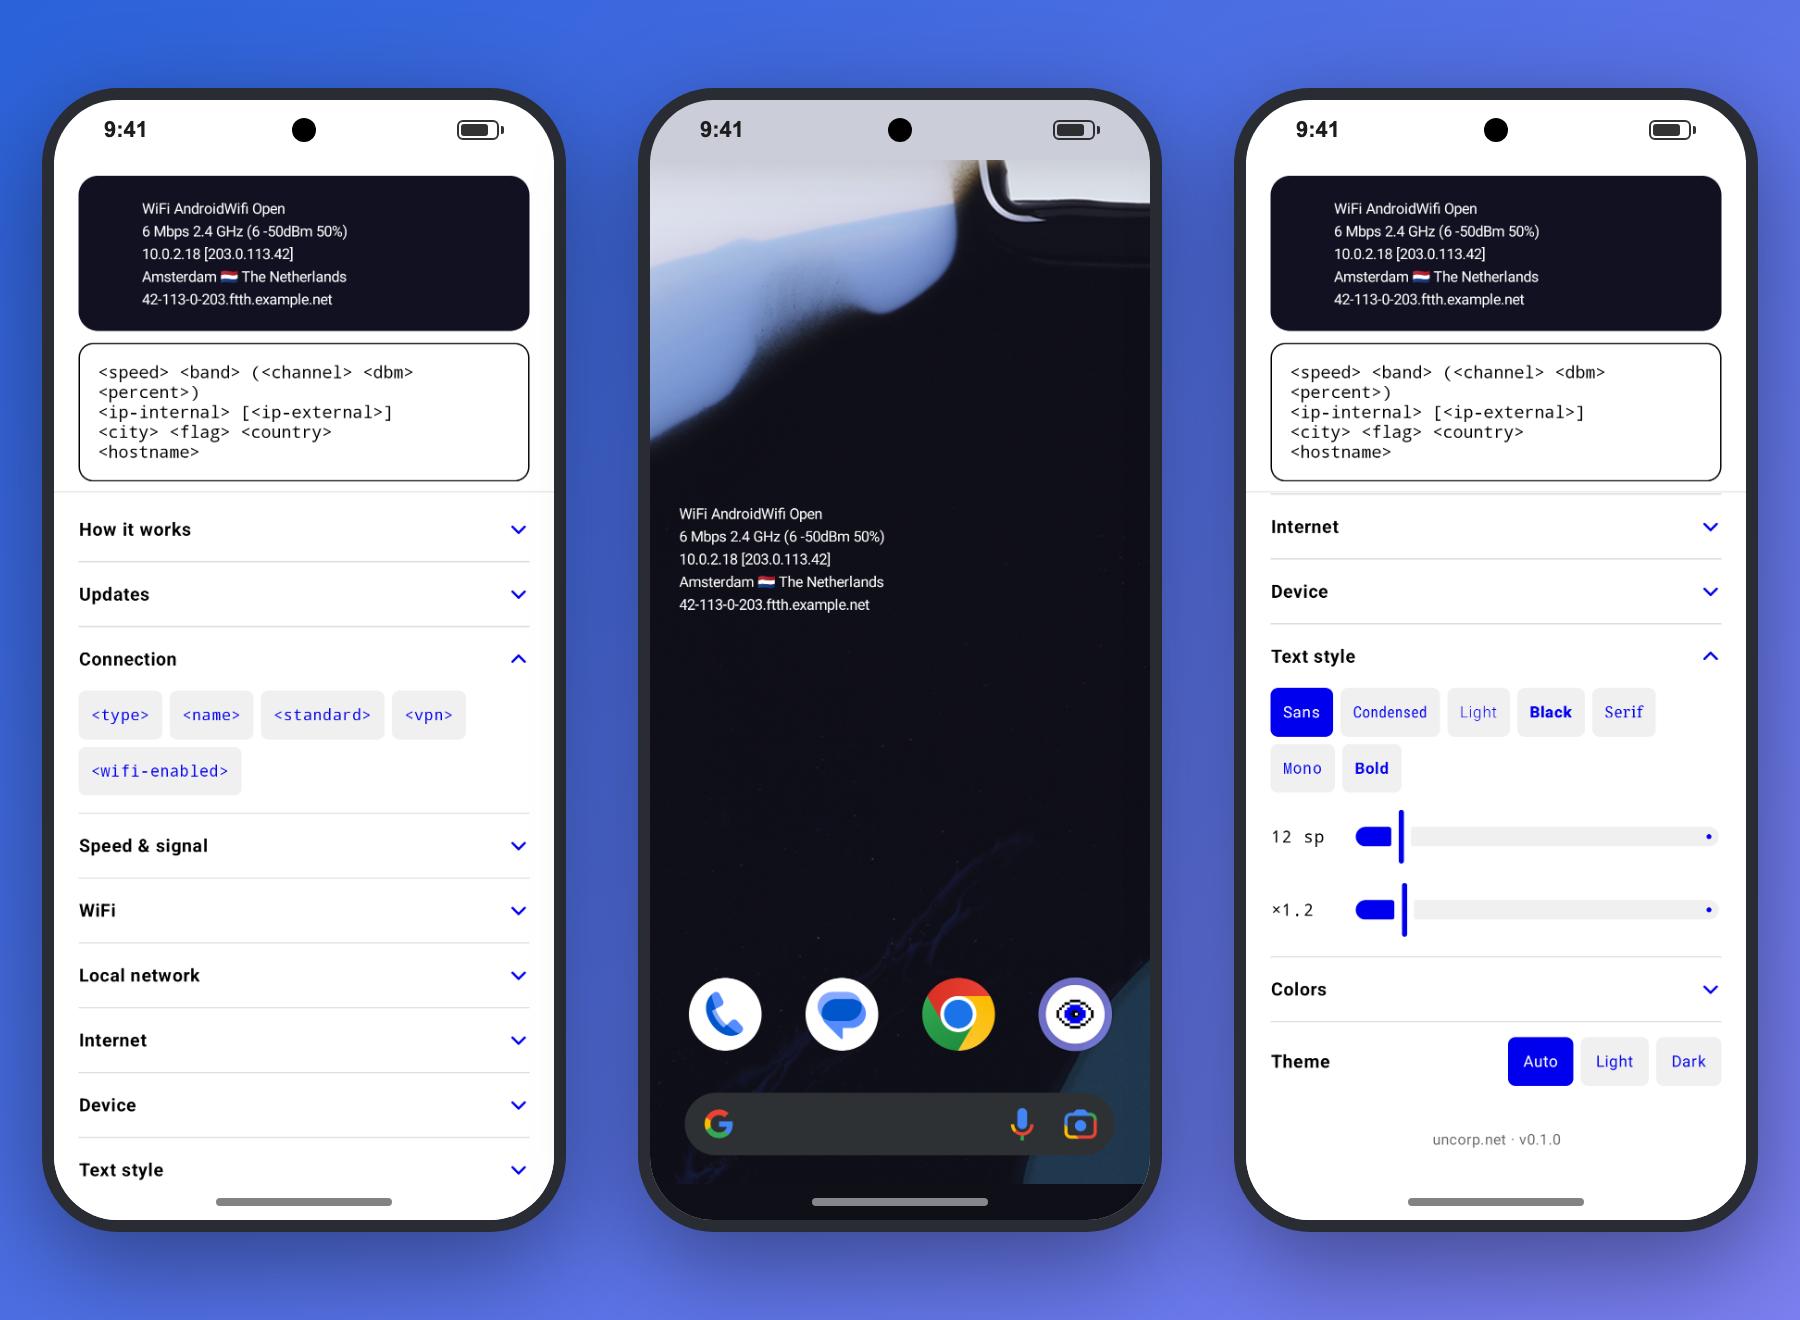
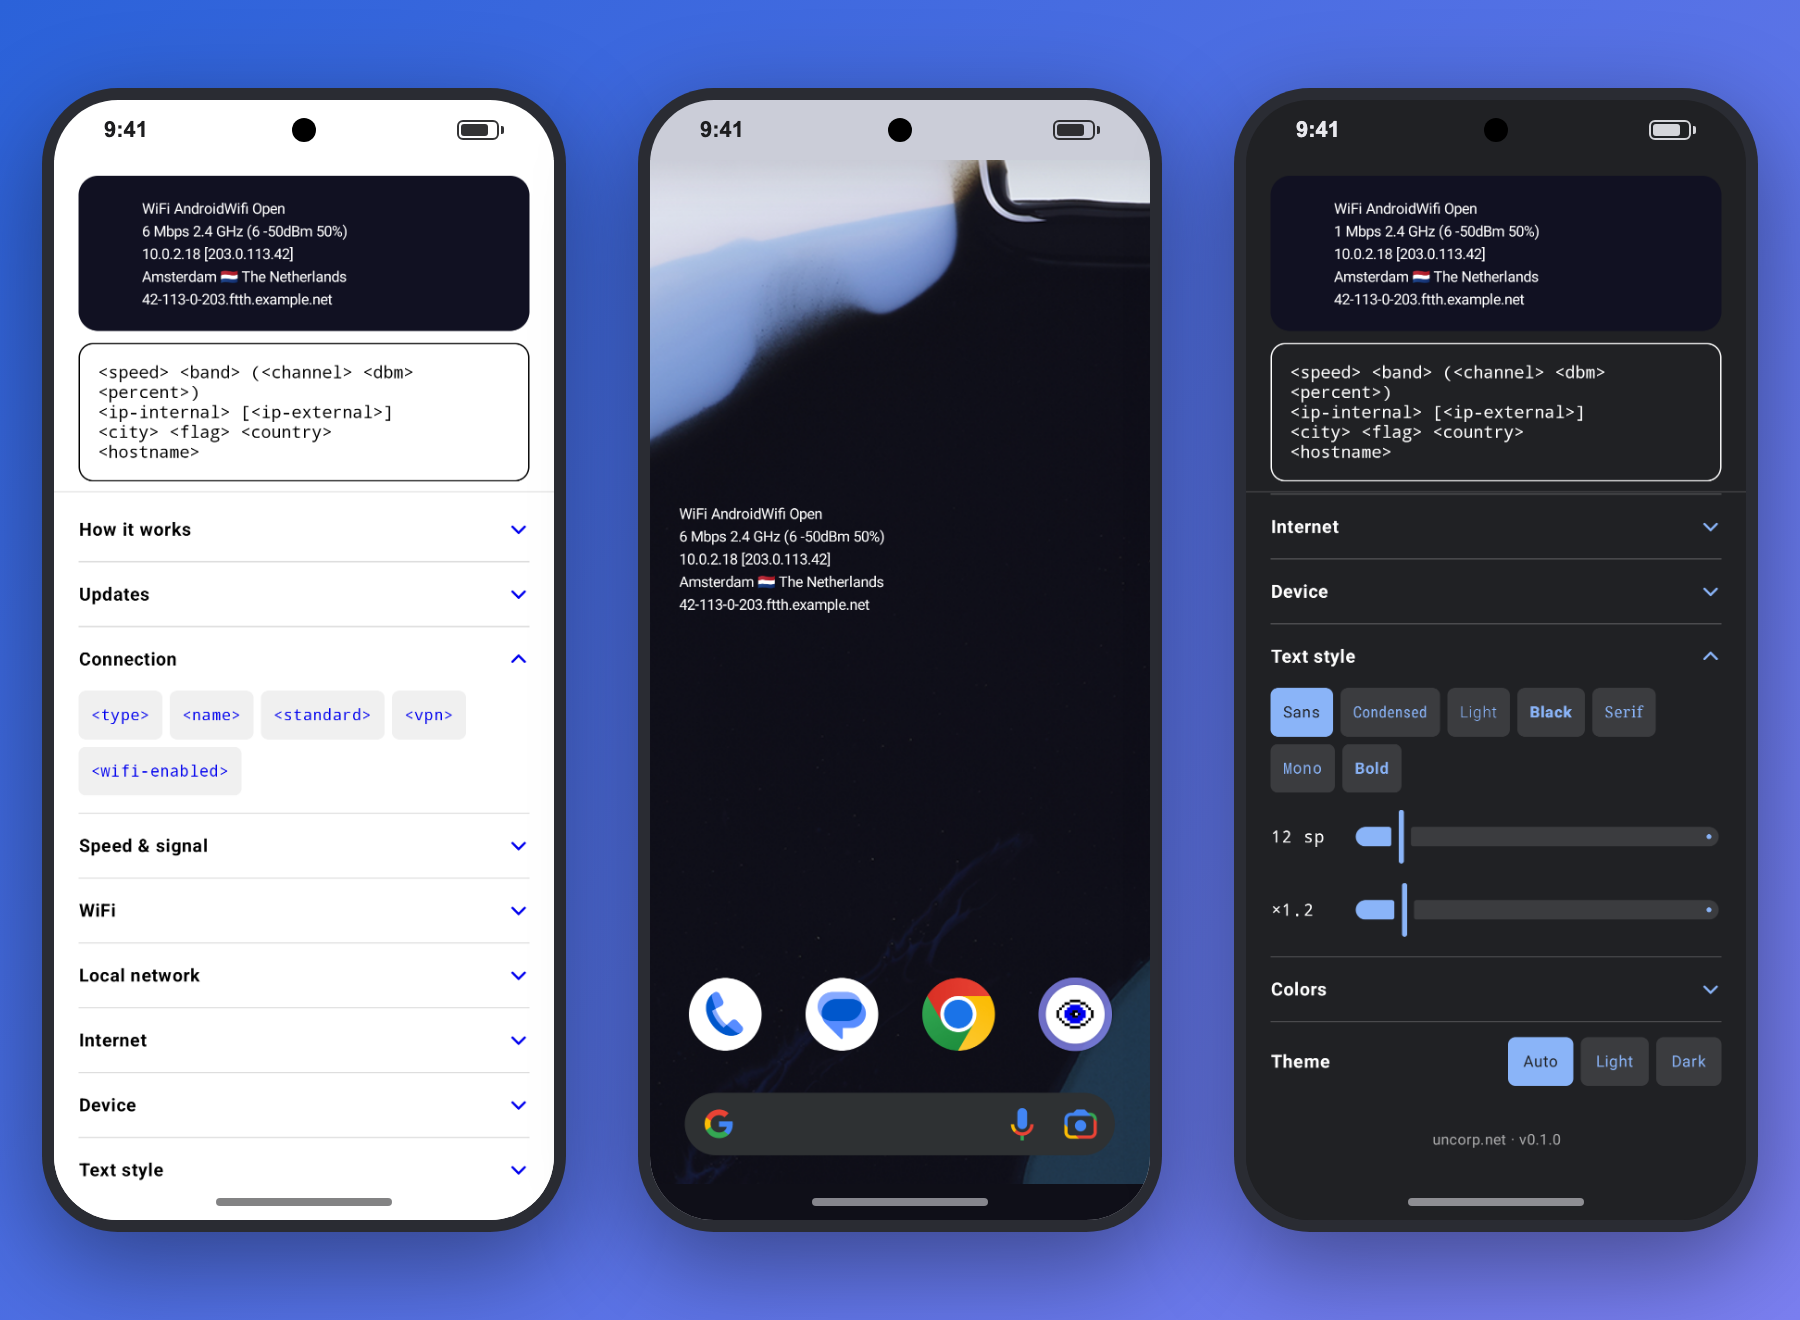
README: The right phone shows the text style options in dark mode

Changed region(s): [[0.6844, 0.0621, 0.9956, 0.9318]]

diff --git a/README.md b/README.md
@@ -6,7 +6,7 @@
 
 <p align="center">WiFi details, IP addresses and location on your home screen, with no polling.</p>
 
-<p align="center"><img src="docs/phones.png" alt="IPeekr's settings screen with the widget preview and its template, the widget on the home screen (dark mode), and the text style options" width="900"></p>
+<p align="center"><img src="docs/phones.png" alt="IPeekr's settings screen with the widget preview and its template, the widget on the home screen (dark mode) and the text style options (dark mode)" width="900"></p>
 
 A small Android home-screen widget that shows your connection at a glance:
 - Connection type and WiFi details (SSID, security, link speed, channel, signal)
